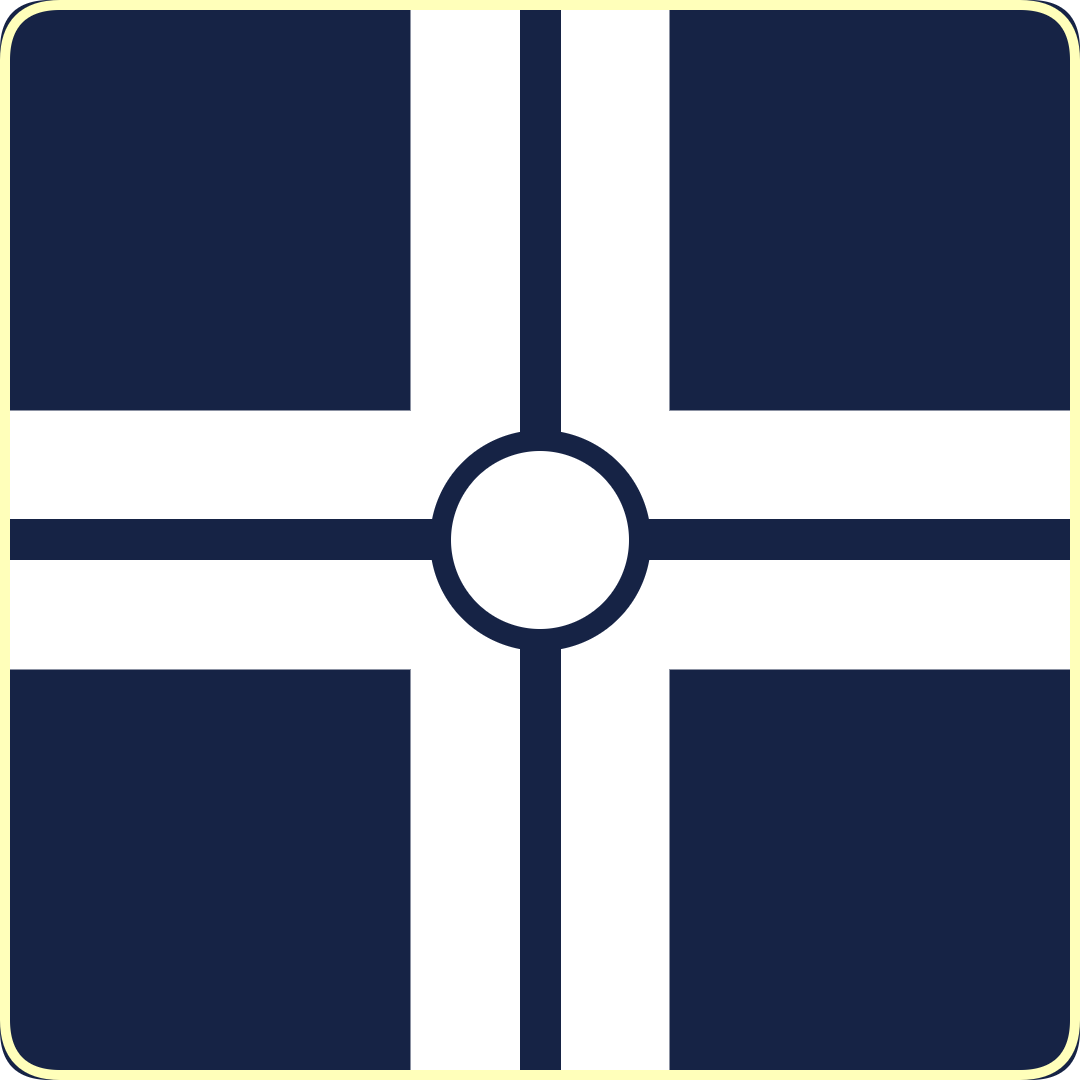
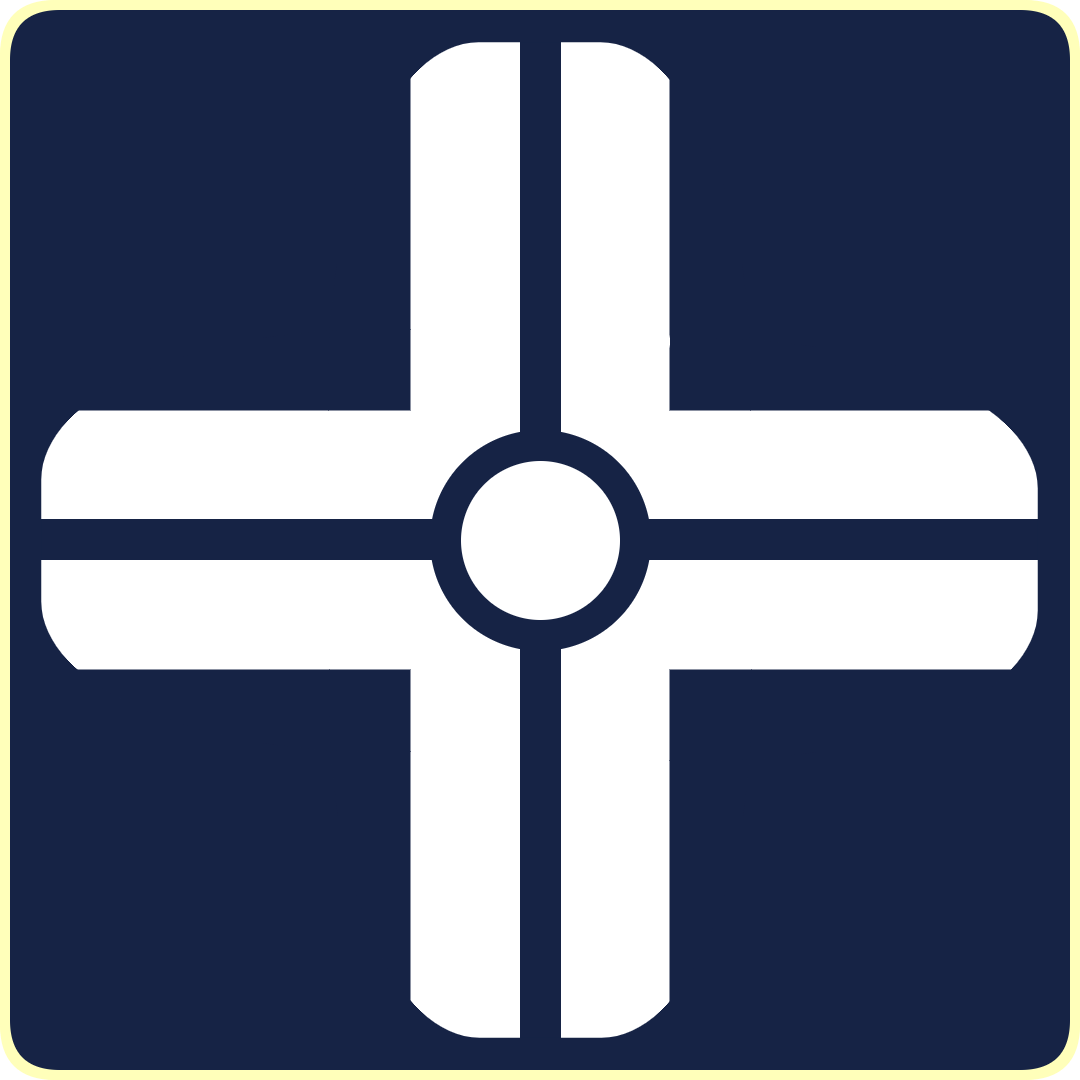
Adding new bg image

diff --git a/src/ui/GamePanel.java b/src/ui/GamePanel.java
@@ -32,13 +32,15 @@ public class GamePanel extends JPanel {
     private Casella firstFlipped  = null;
     private Casella secondFlipped = null;
     private boolean waitingForReset = false;
-
+    private Image boardBackground;
+    
     public GamePanel(StatusBar sb, Timer timer, SoundManager sm) {
         this.gameManager = new GameManager(sb, timer, sm);
         this.statusBar   = sb;
         this.soundManager = sm;
         this.timer       = timer;
         this.welcomeIcon = ImageManager.loadIcon("media/images/LogoUIB (Ben fet).png");
+        this.boardBackground  = ImageManager.loadIcon("media/images/board.png").getImage();
         this.setBackground(Color.WHITE);
 
         this.addMouseListener(new MouseAdapter() {
@@ -55,7 +57,7 @@ public class GamePanel extends JPanel {
 
     public void startGame() {
         setBackground(new Color(24, 61, 39));
-        gameManager.setDifficulty(1);
+        gameManager.setDifficulty(3);
         gameManager.startGame();
 
         inGame          = true;
@@ -63,8 +65,10 @@ public class GamePanel extends JPanel {
         firstFlipped    = null;
         secondFlipped   = null;
 
+        
         timer.reset();
         timer.prepararCountdown(2);
+        timer.setOnTimeOut(this::showGameOver); 
         timer.start();
 
         buildBoard();
@@ -74,8 +78,8 @@ public class GamePanel extends JPanel {
         this.removeAll();
         Card[][] board = gameManager.getBoard();
 
-        setLayout(new GridLayout(gameManager.numRows, gameManager.numCols, 5, 5));
-        setBorder(BorderFactory.createEmptyBorder(20, 20, 20, 20));
+        setLayout(null);
+        setBorder(null);
 
         casellas = new Casella[gameManager.numRows][gameManager.numCols];
 
@@ -91,7 +95,7 @@ public class GamePanel extends JPanel {
         revalidate();
         repaint();
     }
-
+    
     private void addFlipListener(Casella casella) {
         // Remove the default click listener from Casella
         // and manage flipping from here so we control game logic
@@ -128,6 +132,7 @@ public class GamePanel extends JPanel {
         Card c2 = secondFlipped.getCard();
 
         if (gameManager.checkMatch(c1, c2)) {
+            
             firstFlipped  = null;
             secondFlipped = null;
 
@@ -137,7 +142,11 @@ public class GamePanel extends JPanel {
                 endDelay.setRepeats(false);
                 endDelay.start();
             }
+            
+            statusBar.setRandomNiceMovePhrase(); 
+            
         } else {
+            
             waitingForReset = true;
             Casella toFlipA = firstFlipped;
             Casella toFlipB = secondFlipped;
@@ -149,13 +158,17 @@ public class GamePanel extends JPanel {
                 secondFlipped   = null;
                 waitingForReset = false;
             });
+            
             resetDelay.setRepeats(false);
             resetDelay.start();
+            
+            statusBar.setRandomBadMovePhrase();
         }
     }
 
     private void showGameOver() {
         timer.stop();
+        statusBar.setText(gameManager.getGameStatus()); 
         PopUpManager.displayMessage(gameManager.getGameStatus());
         boolean playAgain = PopUpManager.confirmAction("play again");
         if (playAgain) {
@@ -172,10 +185,51 @@ public class GamePanel extends JPanel {
     @Override
     protected void paintComponent(Graphics g) {
         super.paintComponent(g);
+        if (inGame && boardBackground != null) {
+            g.drawImage(boardBackground, 0, 0, getWidth(), getHeight(), this);
+        }
         if (!inGame) drawWelcomeScreen(g);
     }
 
+    @Override
+    public void doLayout() {
+        if (!inGame || casellas == null) {
+            super.doLayout();
+            return;
+        }
+
+        int rows   = gameManager.numRows;
+        int cols   = gameManager.numCols;
+        int gap    = 4;
+        int margin = 15;
+
+        int availW = getWidth()  - 2 * margin;
+        int availH = getHeight() - 2 * margin;
+
+        // Tamaño máximo que puede tener cada carta (cuadrada) sin pasarse en ningún eje
+        int cardByW  = (availW - gap * (cols - 1)) / cols;
+        int cardByH  = (availH - gap * (rows - 1)) / rows;
+        int cardSize = Math.min(cardByW, cardByH); // cuadrada, pero lo más grande posible
+
+        // Tablero real
+        int boardW = cardSize * cols + gap * (cols - 1);
+        int boardH = cardSize * rows + gap * (rows - 1);
+
+        // Centrado
+        int startX = (getWidth()  - boardW) / 2;
+        int startY = (getHeight() - boardH) / 2;
+
+        for (int row = 0; row < rows; row++) {
+            for (int col = 0; col < cols; col++) {
+                int x = startX + col * (cardSize + gap);
+                int y = startY + row * (cardSize + gap);
+                casellas[row][col].setBounds(x, y, cardSize, cardSize);
+            }
+        }
+    }
+    
     private void drawWelcomeScreen(Graphics g) {
+        statusBar.setDefaultText();
         if (welcomeIcon == null) return;
         Graphics2D g2d = (Graphics2D) g;
         g2d.setRenderingHint(RenderingHints.KEY_ANTIALIASING,    RenderingHints.VALUE_ANTIALIAS_ON);

diff --git a/src/game/GameManager.java b/src/game/GameManager.java
@@ -70,12 +70,12 @@ public class GameManager {
             case 4:  return new int[]{4,  5};
             case 5:  return new int[]{4,  6};
             case 6:  return new int[]{5,  6};
-            case 7:  return new int[]{6,  6};
-            case 8:  return new int[]{6,  7};
-            case 9:  return new int[]{7,  8};
-            case 10: return new int[]{8,  8};
+            case 7:  return new int[]{6,  8};
+            case 8:  return new int[]{6,  8};
+            case 9:  return new int[]{6, 10};
+            case 10: return new int[]{8, 10};
             case 11: return new int[]{8, 10};
-            case 12: return new int[]{10, 10};
+            case 12: return new int[]{8, 12};
             default: return new int[]{2,  4};
         }
     }

diff --git a/src/game/Timer.java b/src/game/Timer.java
@@ -16,6 +16,7 @@ import ui.PopUpManager;
 
 public class Timer extends JProgressBar {
 
+    private Runnable onTimeOut;
     private javax.swing.Timer crono;
     private int secTotals;
     private int secRestants;
@@ -65,6 +66,9 @@ public class Timer extends JProgressBar {
                 GameManager.timeOut();
                 stop();
                 PopUpManager.displayMessage("Game Over!", GameManager.getGameStatus());
+                if (onTimeOut != null)  { 
+                    onTimeOut.run();
+                }  
             }
         });
     }
@@ -100,6 +104,10 @@ public class Timer extends JProgressBar {
         return gameDuration;
     }
 
+    public void setOnTimeOut(Runnable callback) {
+        this.onTimeOut = callback;
+    }
+    
     @Override
     protected void paintComponent(Graphics g) {
         super.paintComponent(g);